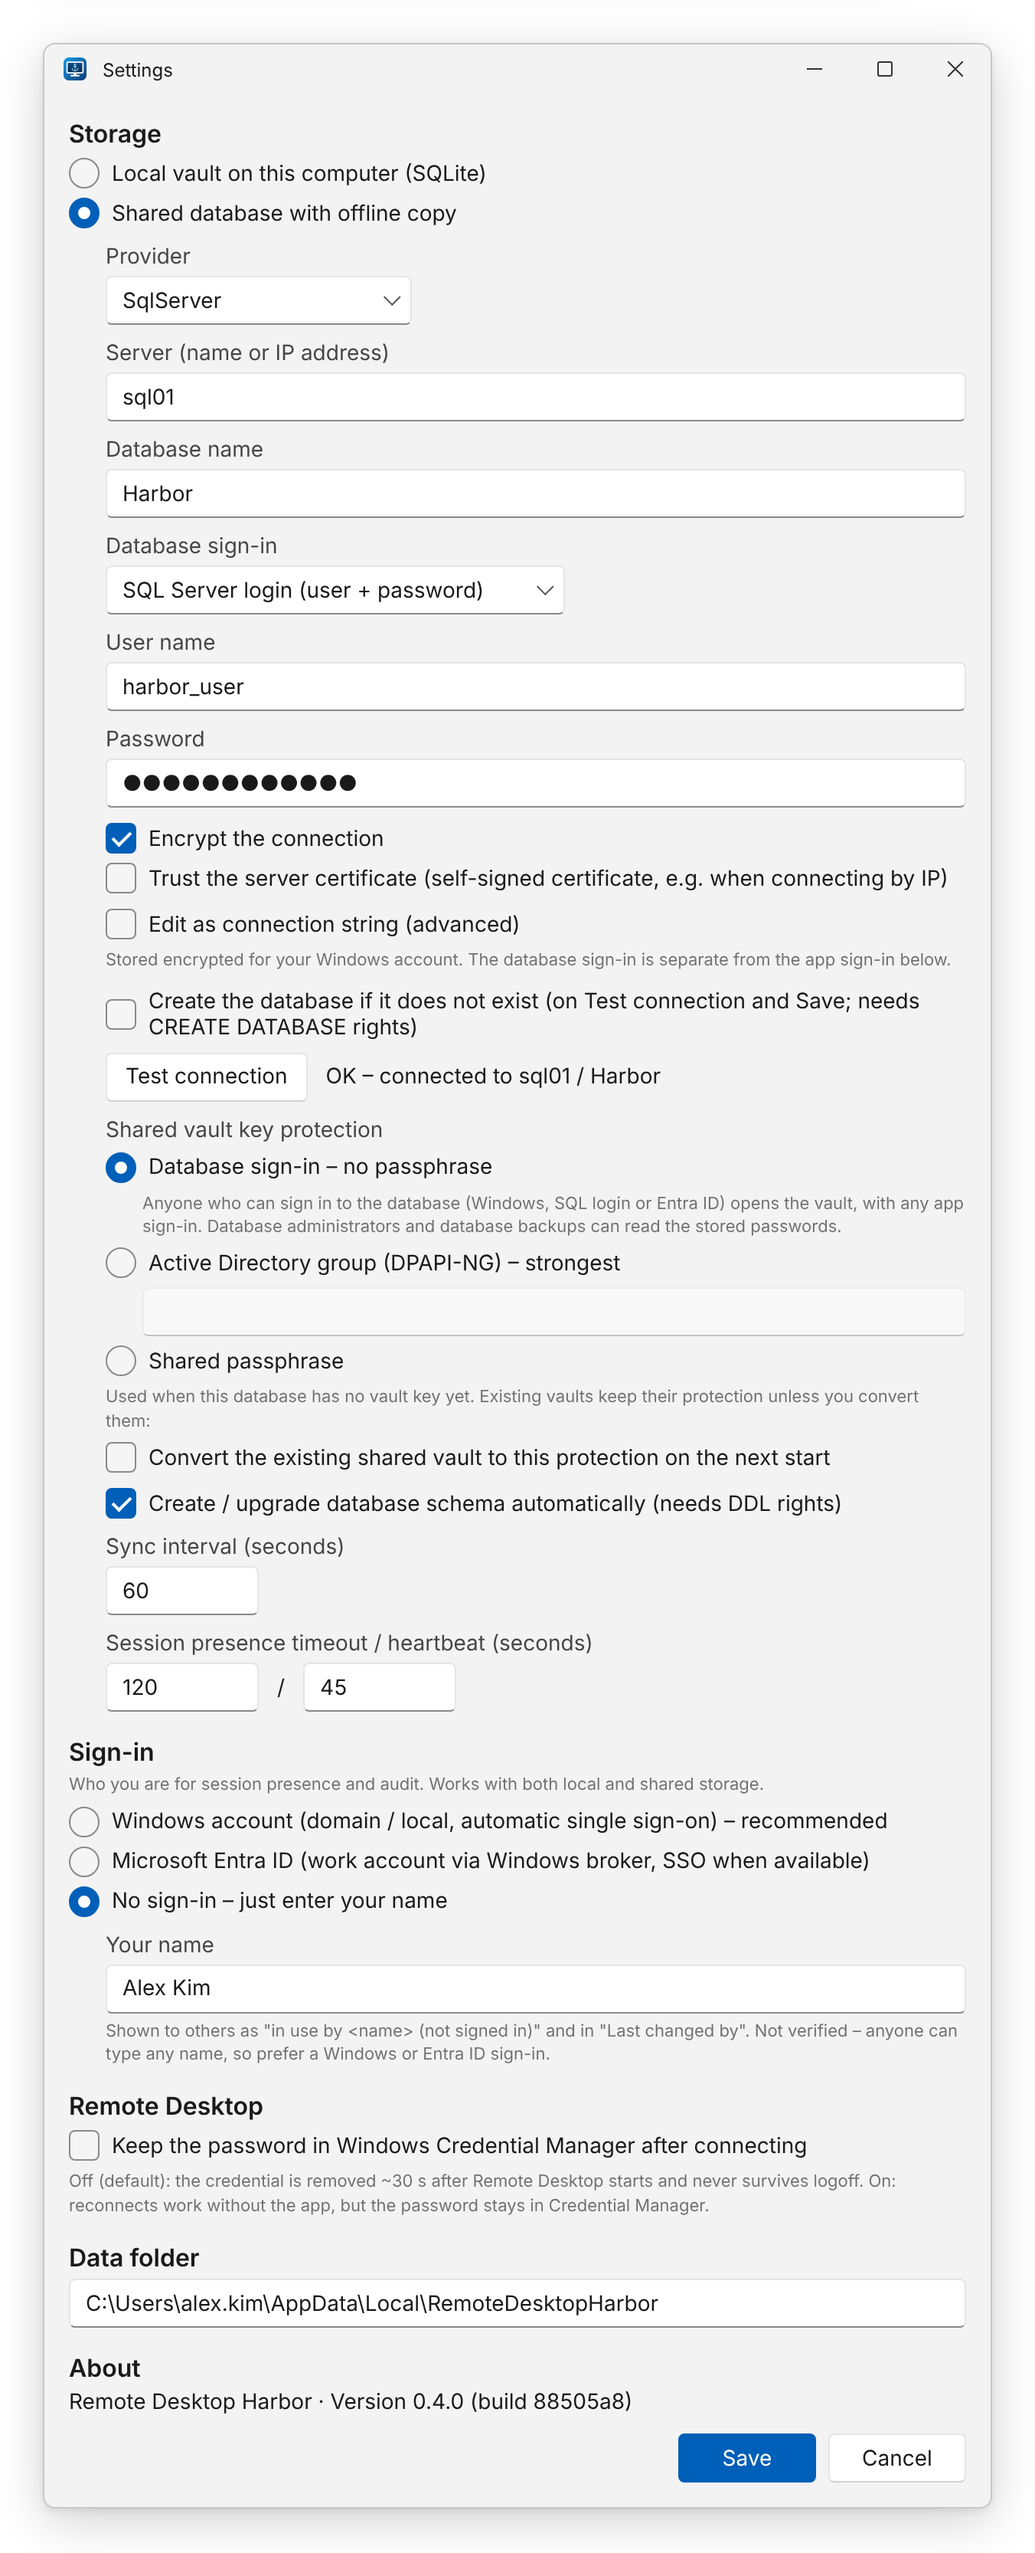
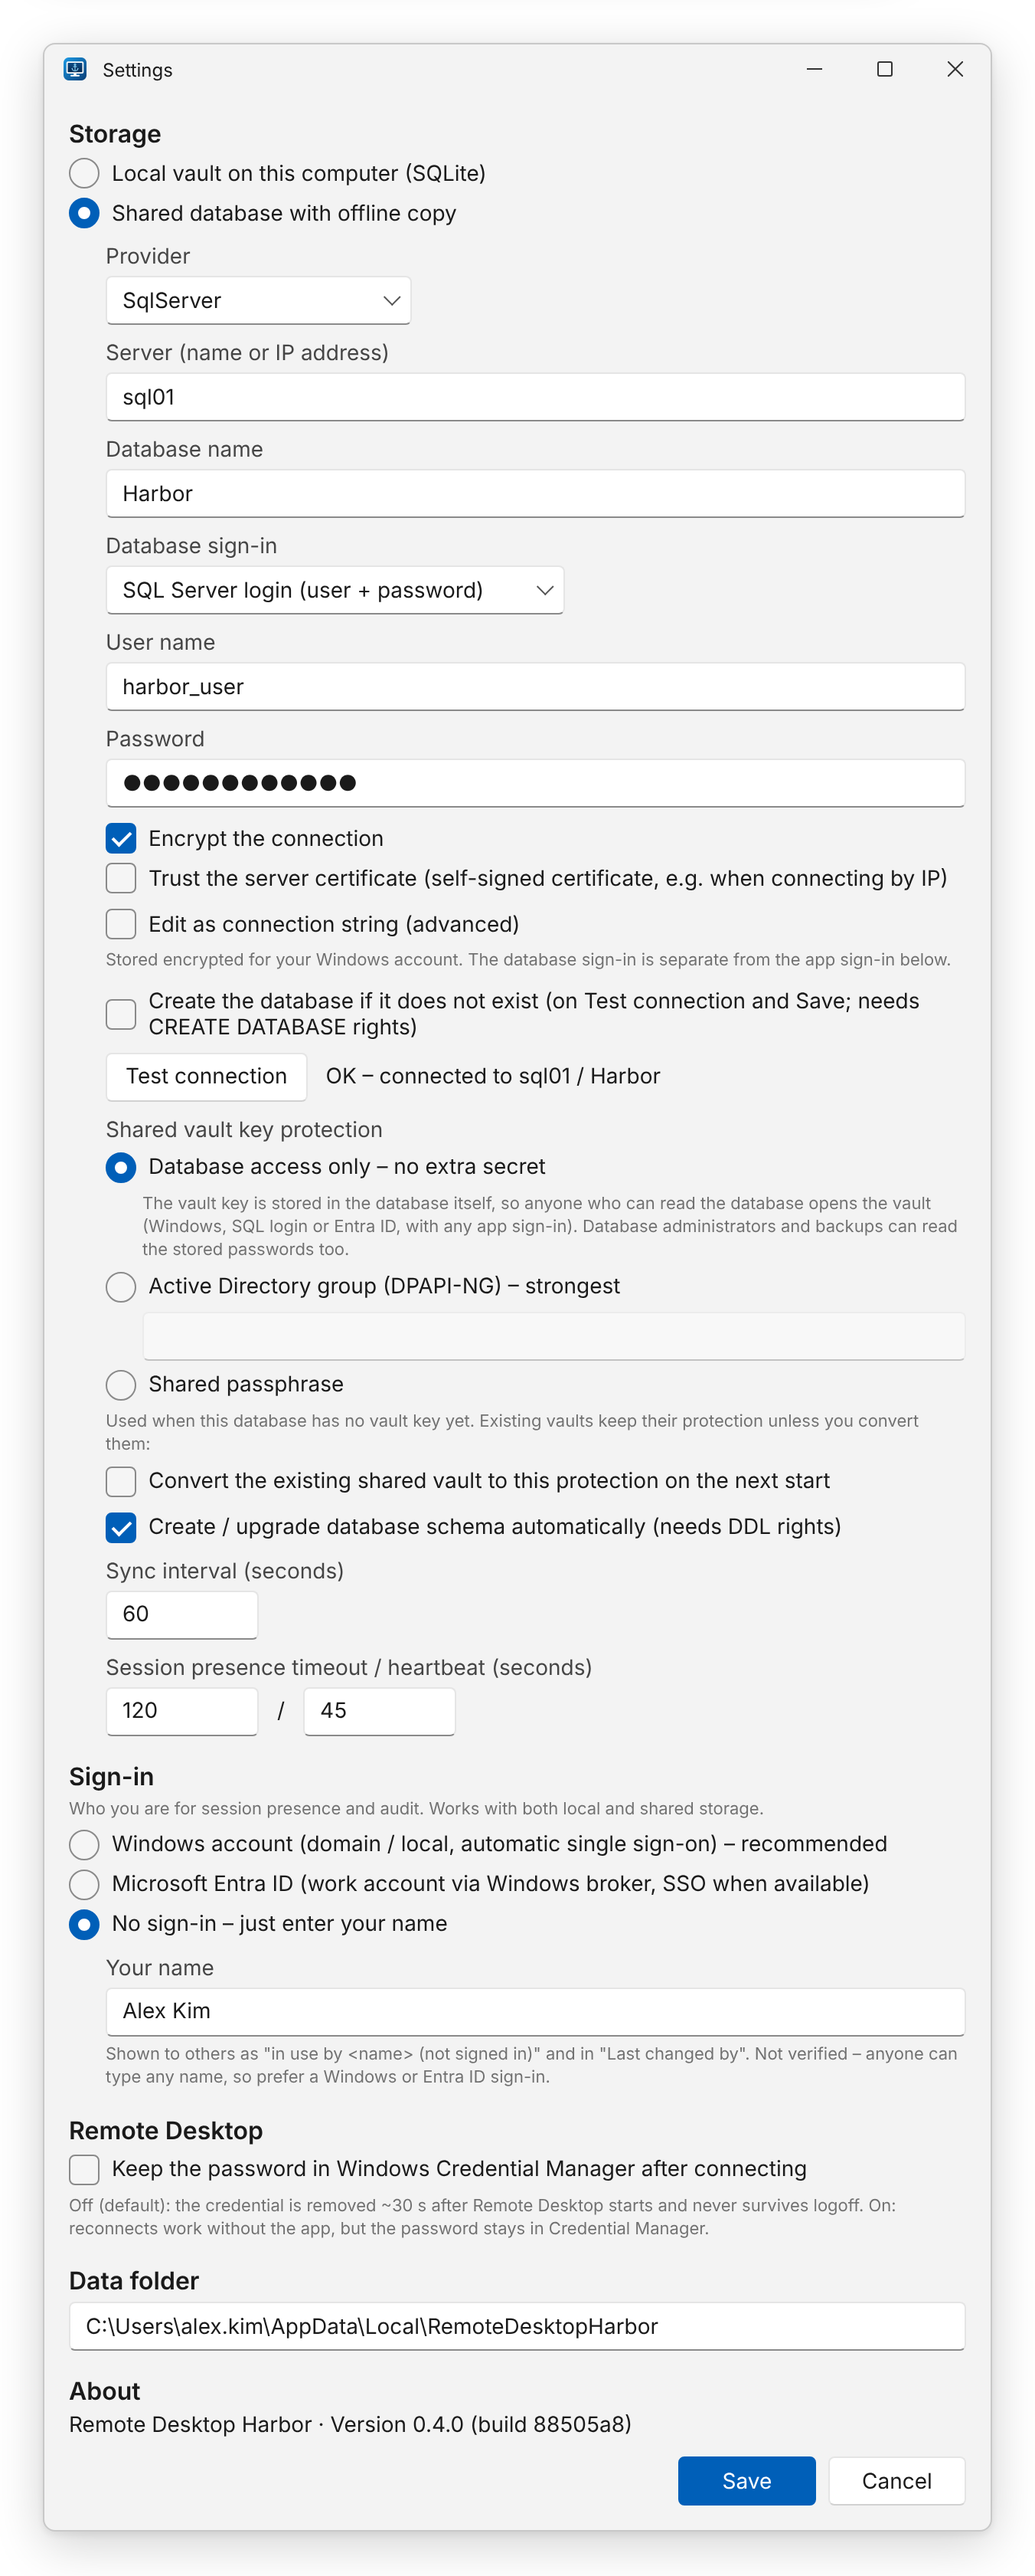
Settings: rename vault protection option to "Database access only – no extra secret"
"Database sign-in" clashed with the connection's Database sign-in field and
hid what the option really does: the vault key is stored in the database, so
database access alone opens the vault. Update the hint, mockup, screenshot
and docs to match (ADR-0018).

Claude-Session: https://claude.ai/code/session_01NkTcFy6Q98RDeeQcm3w6WS

diff --git a/website/mockups/app-mockups.html b/website/mockups/app-mockups.html
@@ -274,8 +274,8 @@ audiomode:i:2</div>
         <span class="check" style="margin-top:10px"><i></i>Create the database if it does not exist (on Test connection and Save; needs CREATE DATABASE rights)</span>
         <div style="display:flex;align-items:center;margin-top:8px"><span class="btn">Test connection</span><span style="margin-left:12px">OK – connected to sql01 / Harbor</span></div>
         <div class="lbl">Shared vault key protection</div>
-        <span class="radio on"><i></i>Database sign-in – no passphrase</span>
-        <div class="hint" style="margin-left:24px;margin-bottom:4px">Anyone who can sign in to the database (Windows, SQL login or Entra ID) opens the vault, with any app sign-in. Database administrators and database backups can read the stored passwords.</div>
+        <span class="radio on"><i></i>Database access only – no extra secret</span>
+        <div class="hint" style="margin-left:24px;margin-bottom:4px">The vault key is stored in the database itself, so anyone who can read the database opens the vault (Windows, SQL login or Entra ID, with any app sign-in). Database administrators and backups can read the stored passwords too.</div>
         <span class="radio" style="margin-top:6px"><i></i>Active Directory group (DPAPI-NG) – strongest</span>
         <div class="tb dim" style="margin-left:24px;margin-top:4px"></div>
         <span class="radio" style="margin-top:6px"><i></i>Shared passphrase</span>

diff --git a/src/Harbor.App/Views/SettingsWindow.xaml b/src/Harbor.App/Views/SettingsWindow.xaml
@@ -65,9 +65,9 @@
 
           <TextBlock Text="Shared vault key protection" Style="{StaticResource FieldLabel}" />
           <!-- ADR-0016, ADR-0018 -->
-          <RadioButton GroupName="KeyProtection" Content="Database sign-in – no passphrase" IsChecked="{Binding UseSignInKey}" Margin="0,2" />
+          <RadioButton GroupName="KeyProtection" Content="Database access only – no extra secret" IsChecked="{Binding UseSignInKey}" Margin="0,2" />
           <TextBlock FontSize="11" Opacity="0.6" TextWrapping="Wrap" Margin="24,2,0,4"
-                     Text="Anyone who can sign in to the database (Windows, SQL login or Entra ID) opens the vault, with any app sign-in. Database administrators and database backups can read the stored passwords." />
+                     Text="The vault key is stored in the database itself, so anyone who can read the database opens the vault (Windows, SQL login or Entra ID, with any app sign-in). Database administrators and backups can read the stored passwords too." />
           <RadioButton GroupName="KeyProtection" Content="Active Directory group (DPAPI-NG) – strongest" IsChecked="{Binding UseDpapiNg}" Margin="0,6,0,2" />
           <TextBox Text="{Binding KeyDescriptor, UpdateSourceTrigger=PropertyChanged}" Margin="24,4,0,0"
                    IsEnabled="{Binding UseDpapiNg}" ToolTip="Protection descriptor of the group allowed to decrypt, e.g. SID=S-1-5-21-…-1234" />

diff --git a/src/Harbor.App/ViewModels/SettingsViewModel.cs b/src/Harbor.App/ViewModels/SettingsViewModel.cs
@@ -112,7 +112,7 @@ public sealed partial class SettingsViewModel : ObservableObject
         set { if (value) IsRemote = false; }
     }
 
-    // ADR-0016: no passphrase for users signed in with Windows / Entra ID.
+    // ADR-0016, ADR-0018: "Database access only" – the key is stored in the database, no extra secret.
     public bool UseSignInKey
     {
         get => KeyScheme == SignInKeyProtector.SchemeName;

diff --git a/website/src/content/docs/team/shared-database.md b/website/src/content/docs/team/shared-database.md
@@ -41,8 +41,8 @@ integrated, SQL Server login or Entra ID. The app's sign-in identity is used for
 All entries are encrypted with one shared vault key. Decide who can unlock it — see
 [Vault key protection](../vault-key-protection/) for details:
 
-- **Database sign-in (default)** — no passphrase: everyone who can sign in to the database (Windows, SQL login or
-  Entra ID, with any app sign-in) opens the vault. Database administrators and backups can then read the passwords too.
+- **Database access only (default)** — no extra secret: the key is stored in the database, so everyone who can sign
+  in to the database (Windows, SQL login or Entra ID, with any app sign-in) opens the vault. Database administrators and backups can then read the passwords too.
 - **Active Directory group (strongest)** — create an AD security group (e.g. *RDP Vault Users*) and note its SID:
 
   ```powershell
@@ -62,7 +62,7 @@ Open **Settings → Storage** and choose **Shared database with offline copy**:
 | Database name | e.g. `Harbor`. Tick **Create the database if it does not exist** to have it created. |
 | Database sign-in | **Windows account**, **SQL Server login** (user + password), or **Microsoft Entra ID** |
 | Encrypt / Trust server certificate | Encrypt is on by default. Tick *Trust the server certificate* for servers with a self-signed certificate (typical when connecting by IP). |
-| Shared vault key protection | **Database sign-in** (default, no passphrase), **Active Directory group** with `SID=S-1-5-21-…`, or **Shared passphrase** |
+| Shared vault key protection | **Database access only** (default, no extra secret), **Active Directory group** with `SID=S-1-5-21-…`, or **Shared passphrase** |
 | Create / upgrade schema automatically | On for the first client (needs DDL rights) |
 | Sync interval | Default `60` seconds (minimum 10) |
 
@@ -70,7 +70,7 @@ Use **Test connection** to check the settings before saving. Everything is store
 encrypted for your Windows account (a SQL login password included). The database sign-in is independent of the
 app's own [sign-in](../entra-id/): Windows or Entra ID app sign-in both work with a shared database.
 
-![Settings dialog with "Shared database with offline copy" selected: server sql01, database Harbor, SQL Server login with user name and password, Test connection, "Database sign-in – no passphrase" vault protection, schema auto-upgrade, sync interval and presence timings, and "No sign-in" with a name.](../../../assets/screenshots/settings.png)
+![Settings dialog with "Shared database with offline copy" selected: server sql01, database Harbor, SQL Server login with user name and password, Test connection, "Database access only – no extra secret" vault protection, schema auto-upgrade, sync interval and presence timings, and "No sign-in" with a name.](../../../assets/screenshots/settings.png)
 
 ### Connection string examples
 

diff --git a/website/src/content/docs/reference/settings.md b/website/src/content/docs/reference/settings.md
@@ -20,7 +20,7 @@ DPAPI-protected for your Windows account, so a copied `settings.json` does not r
 | Server, Database name, Database sign-in, User name, Password, Encrypt, Trust server certificate | `RemoteConnectionStringProtected` | — | Built into a connection string, DPAPI-protected (base64). Edit it in the UI only. |
 | Edit as connection string (advanced) | (same) | off | Edit the raw connection string instead of the fields. Strings the fields cannot describe open here automatically. |
 | Create the database if it does not exist | — (not stored) | off | On **Test connection** and **Save**, create the database if missing. Needs `CREATE DATABASE` rights. |
-| Shared vault key protection | `RemoteKeyScheme` | `sign-in` | `sign-in` (anyone who can sign in to the database, no passphrase), `dpapi-ng` (AD group) or `passphrase`. Used when the shared database has no vault key yet. |
+| Shared vault key protection | `RemoteKeyScheme` | `sign-in` | `sign-in` (*Database access only*: key stored in the database, anyone who can read it opens the vault), `dpapi-ng` (AD group) or `passphrase`. Used when the shared database has no vault key yet. |
 | Convert the existing shared vault to this protection | `RemoteKeyConvert` | `false` | One-time: on the next start, re-protect the existing vault key with the chosen protection; cleared afterwards. See [Vault key protection](../../team/vault-key-protection/). |
 | (descriptor box) | `RemoteKeyDescriptor` | — | DPAPI-NG protection descriptor, e.g. `SID=S-1-5-21-…`. Required for `dpapi-ng`. |
 | Create / upgrade schema automatically | `RemoteAutoMigrate` | `true` | Apply schema migrations at startup. Needs DDL rights. |

diff --git a/website/src/content/docs/team/vault-key-protection.md b/website/src/content/docs/team/vault-key-protection.md
@@ -1,6 +1,6 @@
 ---
 title: Vault key protection
-description: How the shared vault key is protected — database sign-in, AD group with DPAPI-NG, or a shared passphrase.
+description: How the shared vault key is protected — database access only, AD group with DPAPI-NG, or a shared passphrase.
 ---
 
 Every vault has one random 256-bit **data-encryption key** (DEK) that encrypts all its passwords
@@ -10,7 +10,7 @@ a database administrator or anyone holding a backup. The DEK is therefore stored
 You choose the wrapping when the shared vault is **created**. Later clients read the scheme stored with the key and
 use it automatically, whatever their own settings say.
 
-## Database sign-in — default, no passphrase
+## Database access only — default, no extra secret
 
 Anyone who can sign in to the shared database opens the vault — with the **Windows account**, a **SQL Server login**
 (user name + password entered in Settings) or **Microsoft Entra ID**. Nobody types a passphrase and there is nothing
@@ -55,7 +55,7 @@ For environments without Active Directory. The DEK is encrypted with a key deriv
 ## Changing the protection of an existing vault
 
 The choice above is used when a vault is **created**. To change an existing vault (for example from a passphrase to
-*Database sign-in*), pick the new protection in **Settings**, tick
+*Database access only*), pick the new protection in **Settings**, tick
 **Convert the existing shared vault to this protection on the next start**, save and restart. The app re-protects
 the same key once and then clears the option:
 
